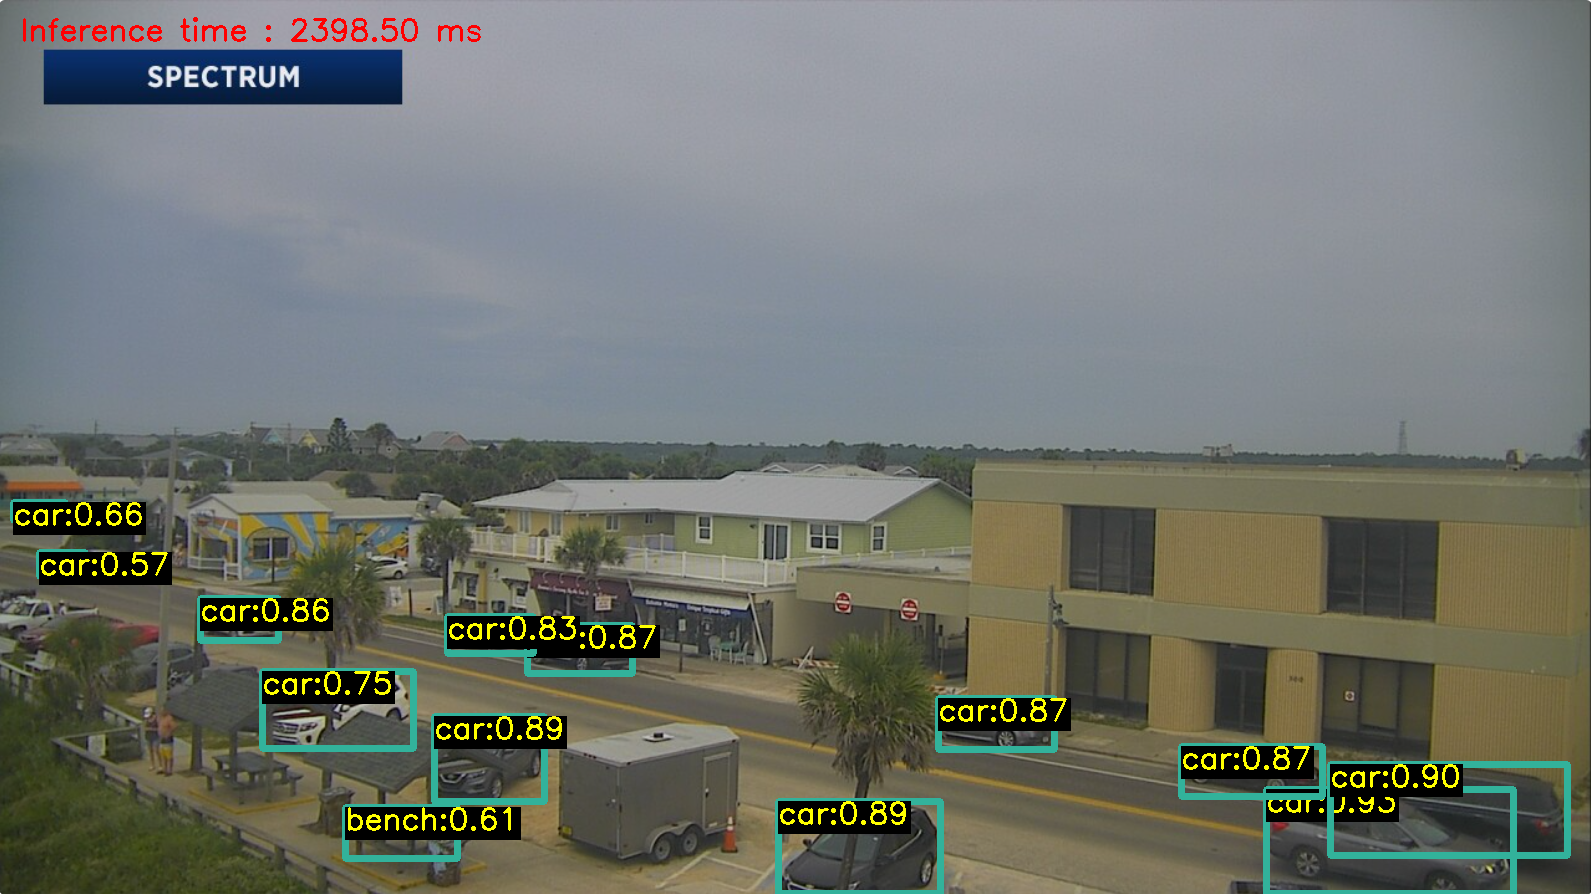
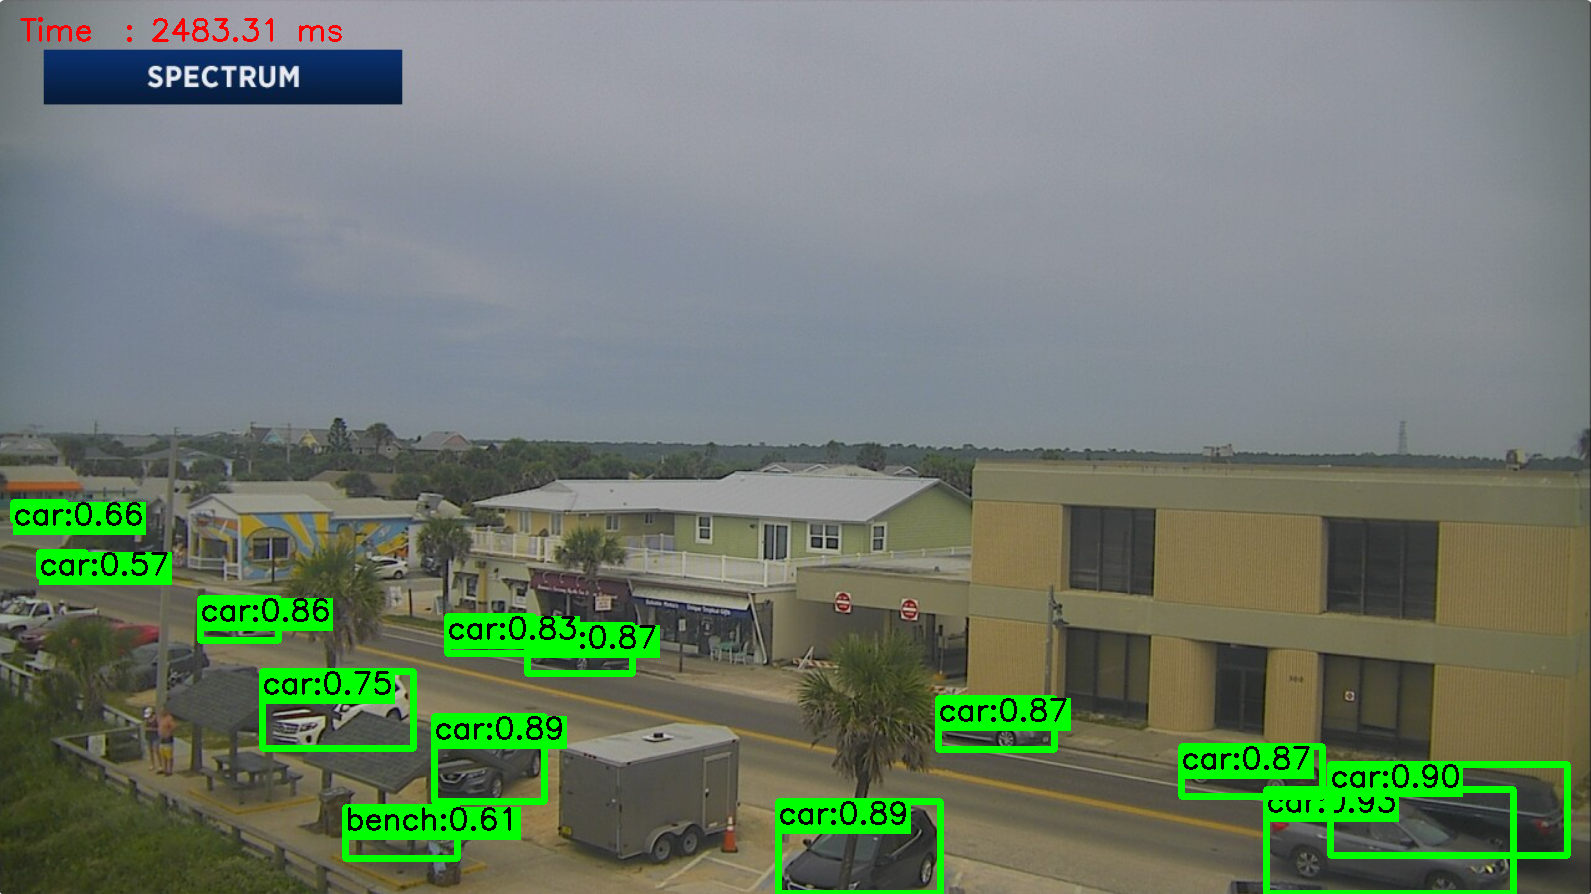
Corrected some simple errors.

diff --git a/DarknetProject/Application.cpp b/DarknetProject/Application.cpp
@@ -2,8 +2,6 @@
 
 wxIMPLEMENT_APP(cApp);
 
-
-// -------------------------- Application --------------------------
 cApp::cApp()
 {
 	
@@ -25,40 +23,55 @@ bool cApp::OnInit()
 	return true;
 }
 
-
-// -------------------------- Main Frame --------------------------
+int cApp::OnExit()
+{
+	if(mainFrame->showingRes)
+	{
+		if (remove(mainFrame->resFilePath.c_str()) != 0)
+		{
+			perror("Error deleting file");
+			return -1;
+		}
+	}
+	return 0;
+}
 
 cMain::cMain() : wxFrame(nullptr, wxID_ANY, "DarkNet Prediction", wxPoint(30, 30), wxSize(1000, 600))
 {
-	drawPanel = new wxImagePanel(this, wxT("test_images/puppy.jpg"), wxBITMAP_TYPE_JPEG);
+	// --------------------------------------- Image Panel ---------------------------------------
+	drawPanel = new wxImagePanel(this, wxBITMAP_TYPE_JPEG);
+
+	// ------------------------------------ File Search Panel -----------------------------------
 	wxPanel *fileSearchPanel = new wxPanel(this, wxID_ANY, wxDefaultPosition, wxSize(300, 500));
 	fileSearchPanel->SetBackgroundColour(wxColor(100, 100, 100));
 
+	// -------------------------------- Sizer for horizontal split -------------------------------
 	wxBoxSizer* sizer = new wxBoxSizer(wxHORIZONTAL);
 	sizer->Add(drawPanel, 1, wxEXPAND | wxALL, 10);
 	sizer->Add(fileSearchPanel, 1, wxEXPAND | wxALL, 10);
 
+	// ------------------------------------ Button Panel -----------------------------------
 	wxPanel *buttonPanel = new wxPanel(fileSearchPanel, wxID_ANY, wxDefaultPosition, wxSize(300, 100));
 	m_btn1 = new wxButton(buttonPanel, 10002, "Predict", wxDefaultPosition, wxSize(150, 30));
-	error_text_field = new wxStaticText(buttonPanel, wxID_ANY, wxString(""), wxPoint(160, 0), wxSize(150, 30));
+	error_text_field = new wxStaticText(buttonPanel, wxID_ANY, wxString(""), wxPoint(160, 0), wxSize(350, 30));
 	error_text_field->SetForegroundColour(wxColour(255, 0, 0));
 	error_text_field->SetFont(error_text_field->GetFont().Scale(1.5));
+
+	// ------------------------------------ File select -----------------------------------
 	m_file_ctrl = new wxFileCtrl(fileSearchPanel, 10001, wxString(".\\test_images"), wxEmptyString, wxString::FromAscii(wxFileSelectorDefaultWildcardStr), wxFC_OPEN, wxDefaultPosition, wxSize(300, 300));
 
-
+	// ------------------------------------ Model select -----------------------------------
 	wxPanel* choicePanel = new wxPanel(fileSearchPanel, wxID_ANY, wxDefaultPosition, wxSize(300, 100));
 	wxString choices[] = { wxT("Large"), wxT("Medium"), wxT("Small"), wxT("Nano")};
 	modelChoice = new wxChoice(choicePanel, 10003, wxDefaultPosition, wxSize(150, 30), 4, choices);
 	wxStaticText *text_field = new wxStaticText(choicePanel, wxID_ANY, wxString("(NN Model)"), wxPoint(160, 5), wxSize(150, 30));
 
-	// wxPanel* errorPanel = new wxPanel(fileSearchPanel, wxID_ANY, wxDefaultPosition, wxSize(300, 100));
-	// textCtrl = new wxTextCtrl(errorPanel, 10004, "Error message", wxDefaultPosition, wxSize(300, 100));
 
+	// ------------------------------------ Sizer for right side -----------------------------------
 	wxBoxSizer* fileSearchSizer = new wxBoxSizer(wxVERTICAL);
 	fileSearchSizer->Add(m_file_ctrl, 1, wxEXPAND | wxALL, 10);
 	fileSearchSizer->Add(choicePanel, 1, wxEXPAND | wxALL, 10);
 	fileSearchSizer->Add(buttonPanel, 1, wxEXPAND | wxALL, 10);
-	// fileSearchSizer->Add(errorPanel, 1, wxEXPAND | wxALL, 10);
 
 	fileSearchPanel->SetSizer(fileSearchSizer);
 
@@ -97,7 +110,6 @@ void cMain::onButtonClicked(wxCommandEvent& event)
 	if (selectedFilePath.empty())
 	{
 		error_text_field->SetLabel(wxString("File not selected!"));
-
 		return;
 	}
 
@@ -107,24 +119,32 @@ void cMain::onButtonClicked(wxCommandEvent& event)
 		return;
 	}
 
-	error_text_field->SetLabel(wxEmptyString);
-	string selectedFilePathString = string(selectedFilePath.mb_str());
-	string selectedFileString = string(selectedFile.mb_str());
-	predict(selectedFilePathString, selectedFileString, selectedModel);
+	if (selectedFilePath.compare(selectedFilePath.size() - 4, 4, wxString(".png")) == 0 ||
+		selectedFilePath.compare(selectedFilePath.size() - 4, 4, wxString(".jpg")) == 0 ||
+		selectedFilePath.compare(selectedFilePath.size() - 5, 5, wxString(".jpeg")) == 0)
+	{
+		error_text_field->SetLabel(wxEmptyString);
+		string selectedFilePathString = string(selectedFilePath.mb_str());
+		string selectedFileString = string(selectedFile.mb_str());
+		predict(selectedFilePathString, selectedFileString, selectedModel);
 
-	showingRes = true;
-	wxString resFile = wxString("temp/") + selectedFile;
-	drawPanel->loadNewImage(resFile);
-	resFilePath = string(resFile.mb_str());
+		showingRes = true;
+		wxString resFile = wxString("temp/") + selectedFile;
+		drawPanel->loadNewImage(resFile);
+		resFilePath = string(resFile.mb_str());
+	}
+	else
+	{
+		error_text_field->SetLabel(wxString("Selected file has unsupported format!"));
+	}
 }
 
 
 
 // -------------------------- Image Viewer --------------------------
-wxImagePanel::wxImagePanel(wxFrame* parent, wxString file, wxBitmapType format) :
+wxImagePanel::wxImagePanel(wxFrame* parent, wxBitmapType format) :
 	wxPanel(parent)
 {
-	image.LoadFile(file, format);
 	blank = new wxImage(wxSize(100, 100), true);		// blank, when no image is selected
 
 	// image current dimensions
@@ -213,7 +233,6 @@ void wxImagePanel::loadNewImage(wxString file)
 		}
 		else
 		{
-			cout << "Wrong file format!" << endl;
 			return;
 		}
 	}

diff --git a/DarknetProject/Darknet.cpp b/DarknetProject/Darknet.cpp
@@ -12,6 +12,7 @@ const int THICKNESS = 2;
 
 Scalar BLACK = Scalar(0, 0, 0);
 Scalar BLUE = Scalar(155, 178, 50);
+Scalar GREEN = Scalar(0, 255, 0);
 Scalar YELLOW = Scalar(0, 255, 255);
 Scalar RED = Scalar(0, 0, 255);
 
@@ -27,8 +28,8 @@ void draw_label(Mat& input_image, string label, int left, int top)
 
     Point brc = Point(left + label_size.width, top + label_size.height + baseLine);
 
-    rectangle(input_image, tlc, brc, BLACK, FILLED);
-    putText(input_image, label, Point(left, top + label_size.height), FONT_FACE, FONT_SCALE, YELLOW, THICKNESS);
+    rectangle(input_image, tlc, brc, GREEN, FILLED);
+    putText(input_image, label, Point(left, top + label_size.height), FONT_FACE, FONT_SCALE, BLACK, THICKNESS);
 }
 
 vector<Mat> pre_process(Mat& input_image, Net& net)
@@ -101,7 +102,7 @@ Mat post_process(Mat& input_image, vector<Mat>& outputs, const vector<string>& c
         int width = box.width;
         int height = box.height;
 
-        rectangle(input_image, Point(left, top), Point(left + width, top + height), BLUE, 3 * THICKNESS);
+        rectangle(input_image, Point(left, top), Point(left + width, top + height), GREEN, 3 * THICKNESS);
         string label = format("%.2f", confidences[idx]);
         label = class_name[class_ids[idx]] + ":" + label;
         draw_label(input_image, label, left, top);

diff --git a/DarknetProject/Application.h b/DarknetProject/Application.h
@@ -3,7 +3,6 @@
 #include "wx/sizer.h"
 #include "Darknet.h"
 
-
 #ifndef wxUSE_FLECTRL
 #define wxUSE_FILECTRL 1
 #endif
@@ -19,7 +18,7 @@ class wxImagePanel : public wxPanel
 	bool shouldShow = false;
 
 public:
-	wxImagePanel(wxFrame* parent, wxString file, wxBitmapType format);
+	wxImagePanel(wxFrame* parent, wxBitmapType format);
 
 	void paintEvent(wxPaintEvent& evt);
 	void paintNow();
@@ -84,6 +83,7 @@ private:
 
 public:
 	virtual bool OnInit();
+	virtual int OnExit();
 };
 
 
